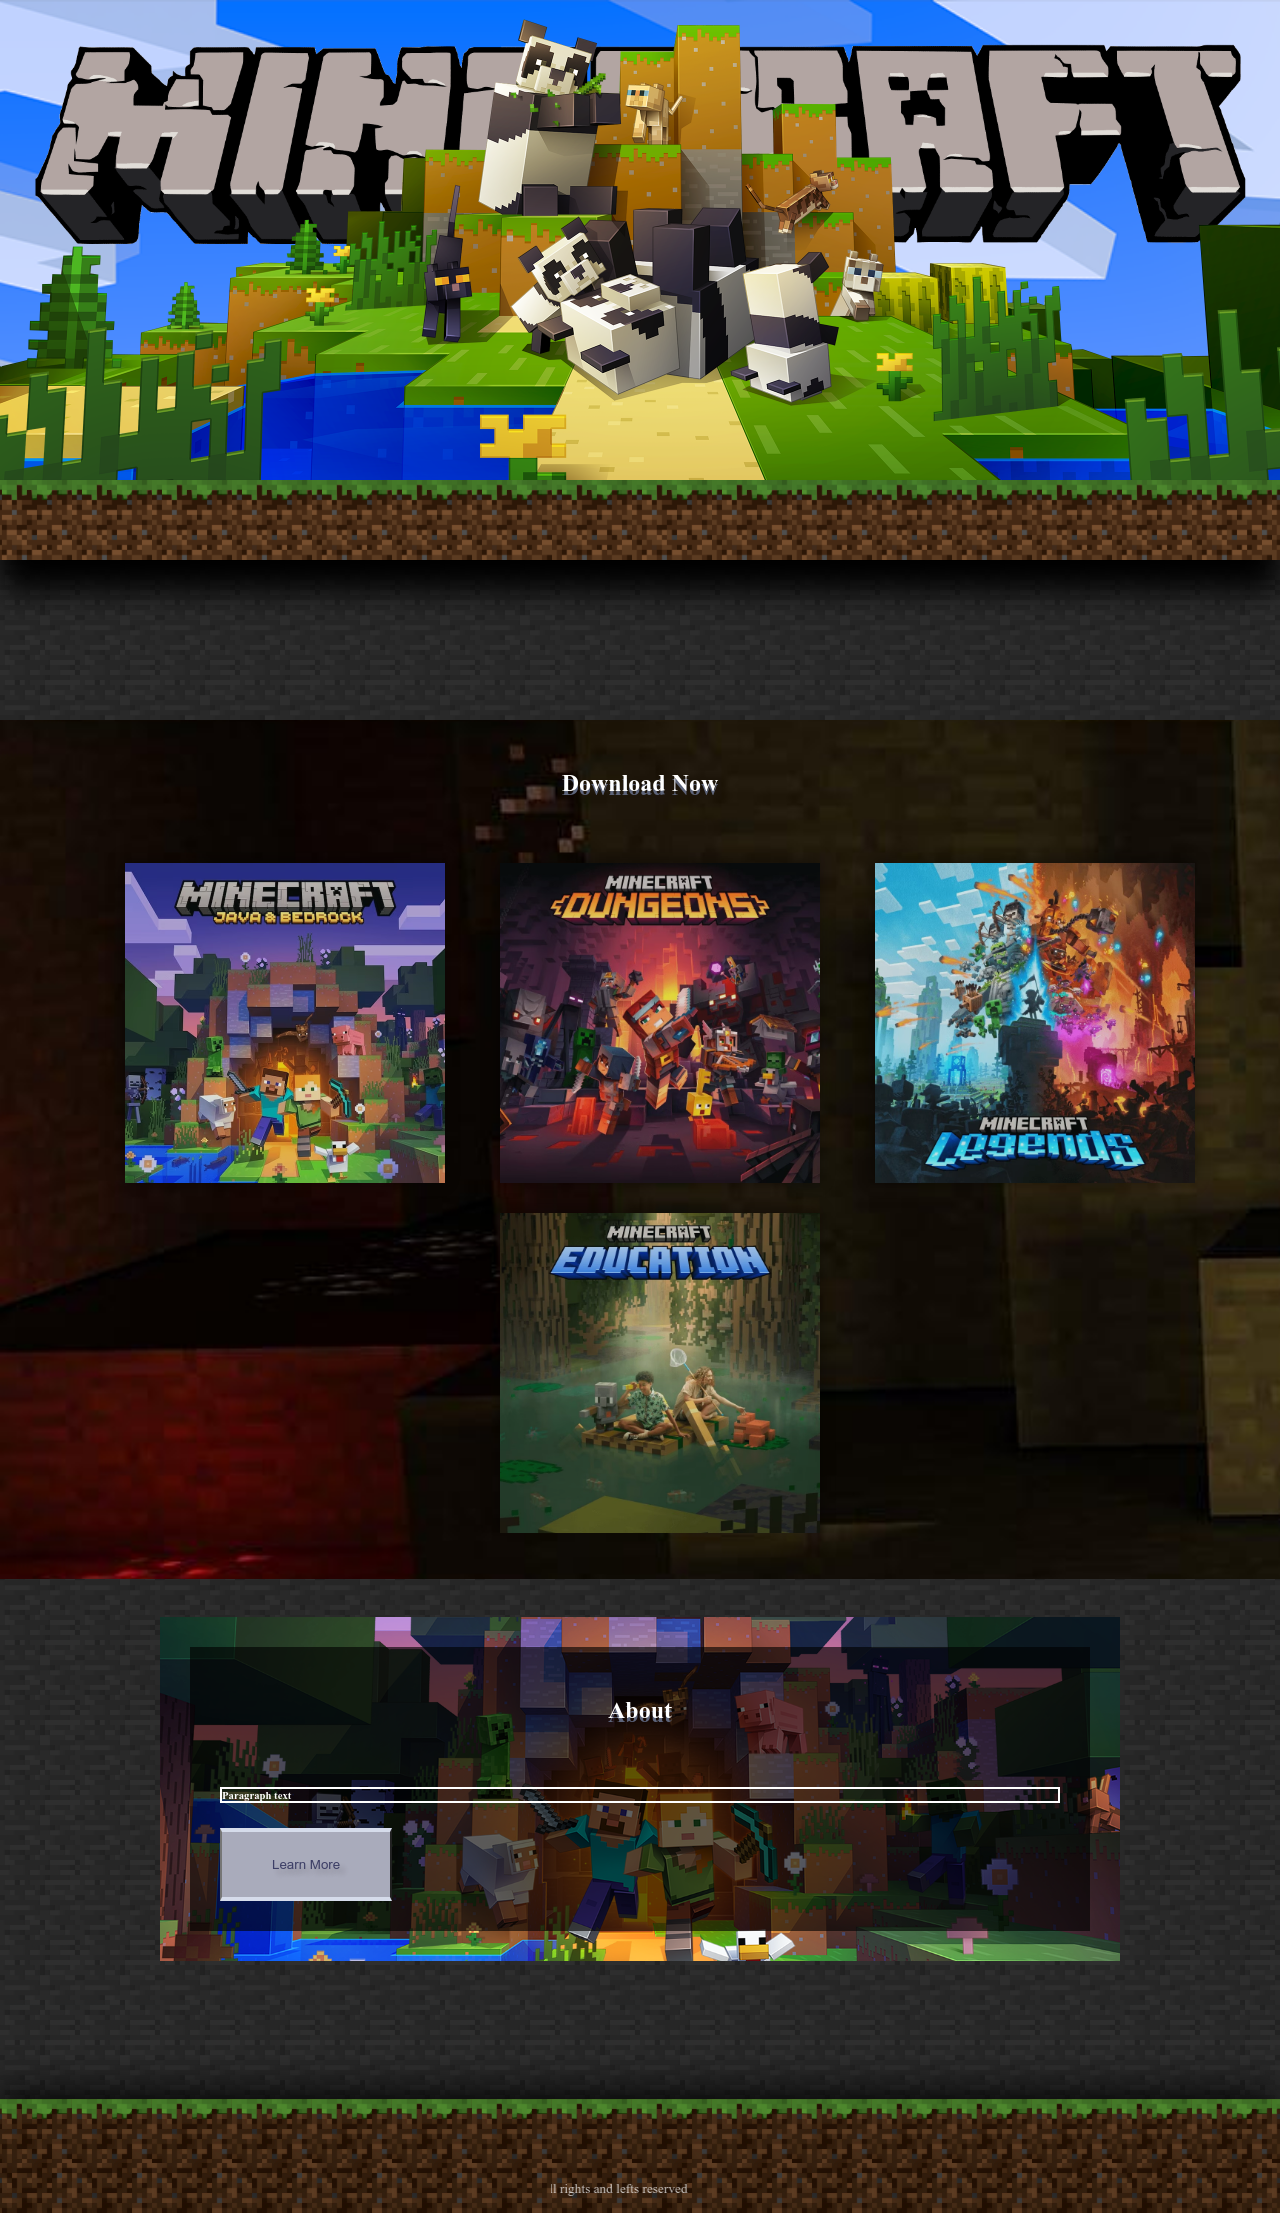
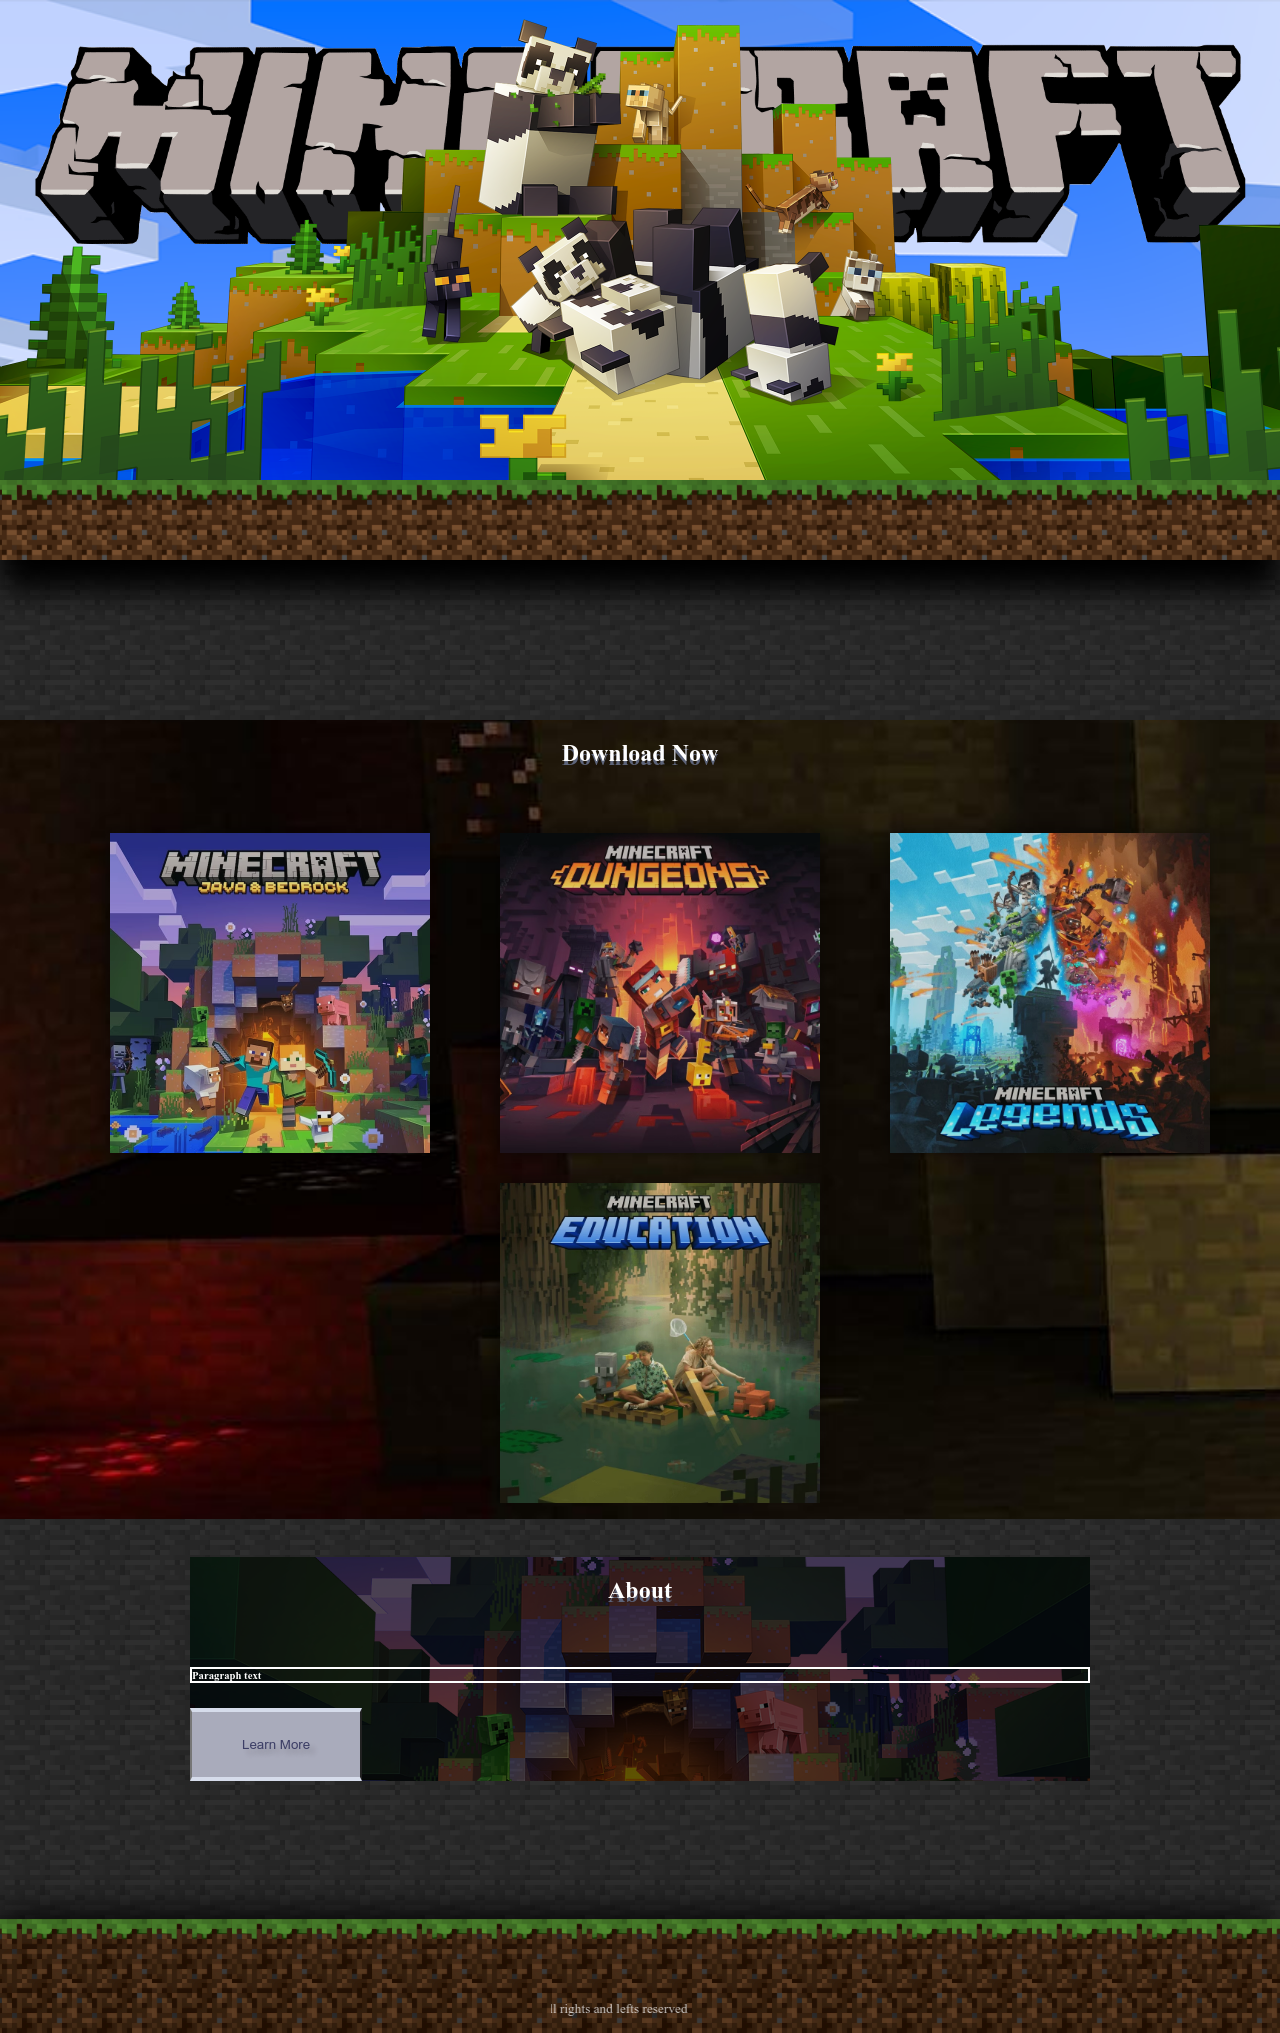
m

diff --git a/index.html b/index.html
@@ -12,7 +12,36 @@
     </head>
     <body>
         <header aria-label="Header">
-            
+            <div id="menulist">
+                <ul>
+                    <li>
+                        <div id="portal">
+                            <label>
+                                <input type="checkbox" id="menu">
+                                <span class="menu-btn">
+                                    <div class="btn-line"></div>
+                                    <div class="btn-line"></div>
+                                    <div class="btn-line"></div>
+                                </span>
+                                <span id="menuitems">
+                                    <a href="index.html">
+                                        Home
+                                    </a>
+                                    <a href="about.html">
+                                        About
+                                    </a>
+                                    <a href="products.html">
+                                        Products
+                                    </a>
+                                    <a href="contact.html">
+                                        Contact
+                                    </a>
+                                </span> 
+                            </label>
+                        </div>
+                    </li>
+                </ul>
+            </div>
             <div>
                 <div id="logo">
                     <img src="images/mc.png" alt="Minecraft Logo">
@@ -59,12 +88,14 @@
                 <div class="slidein">
                     <div id="scroller">
                         <p id="scrollerText">
-                            
+                            The first version of Minecraft was created in just six days.
+                            Minecraft wasn't deemed complete for another two years.
+                            Creepers began as a coding error. --------------------
                         </p>
                     </div>
                 </div>         
-                <h6 class="slidein" id="para" style="border: 2px solid">
-                    Paragraph text
+                <h6 class="slidein" id="para">
+                    Enter the boundless world of Minecraft - where imagination reigns supreme and every block holds the potential for endless adventure. Dive into a universe where creativity knows no bounds and exploration knows no limits. Welcome to the Minecraft Games, where every pixel tells a story and every player is a pioneer of their own digital frontier.
                 </h6>
                 <button class="download" onclick="window.location='about.html'">Learn More</button>
             </section>
@@ -75,7 +106,7 @@
         <footer>
             <!-- <div id="toTop"></div> -->
             <div>
-                <p class="slidein"><small>2024 All rights and lefts reserved</small></p>    
+                <p class="slidein"><small>2024 &copy; All rights and lefts reserved</small></p>    
             </div>
         </footer>
     </body>

diff --git a/css/styles.css b/css/styles.css
@@ -1,4 +1,12 @@
+@font-face {
+    font-family: poppins;
+    src: url(../fonts/MinecraftRegular-Bmg3.otf);
+}
 
+@font-face {
+    font-family: minecraft;
+    src: url(../fonts/MinecraftTen.woff);
+}
 
 * {
     overflow-x: hidden;
@@ -10,6 +18,7 @@
     --sec: #282828aa;
     --ter: #35CE8D;
     color: white;
+    font-family: poppins;
     scroll-behavior: smooth;
 }
 
@@ -17,6 +26,7 @@
     margin: auto;
     margin-top: 20px;
     margin-bottom: 20px;
+    padding: 30px;
     background-image: url(../images/dirt.webp);
     background-size: 5em;
     overflow: hidden;
@@ -137,11 +147,12 @@ Navigation Menu
 }
 
 header ul {
+    font-family: minecraft;
 }
 
 #menuitems a:first-letter {
     color: #e0f1ea;
-    .itemssize: 1.3em;
+    font-size: 1.3em;
 }
 
 #menuitems a {
@@ -208,16 +219,13 @@ label {
 
 .color {
     background-color: #000000a0;
+    padding: 30px;
     
 }
 
-p {
-    min-width: 10%;
-}
-
 .block h2 {
-    .itemsfamily: minecraft;
-    .itemssize: 3em;
+    font-family: minecraft;
+    font-size: 3em;
     text-align: center;
 }
 
@@ -308,8 +316,8 @@ input, textarea {
     border: 2px solid var(--pri);
     background-color: var(--sec);
     color: white;
-    .itemssize: large;
-    .itemsfamily: minecraft;
+    font-size: large;
+    font-family: minecraft;
     margin: 20px;
     padding: 15px;
     transition: 0.4s;
@@ -335,9 +343,9 @@ a {
 }
 
 h1 {
-    .itemsfamily: minecraft;
+    font-family: minecraft;
     text-align: center;
-    .itemssize: 8em;
+    font-size: 8em;
 }
 
 h1, h2 {
@@ -356,7 +364,7 @@ section h1 {
 
 #indexAbout p {
     margin: 5px;
-    .itemssize: 0.5em;
+    font-size: 0.5em;
     display: inline;
 }
 
@@ -366,12 +374,12 @@ section h1 {
     word-break: break-all;
     overflow: hidden;
     letter-spacing: 2px;
-    .itemssize: 1.5em;
+    font-size: 1.5em;
 }
 
 #para {
-    .itemsweight: normal;
-    .itemssize: 1em;
+    font-weight: normal;
+    font-size: 1em;
 }
 
 #products .items {
@@ -458,10 +466,10 @@ section h1 {
     border-top: 4px solid #d6dceb;
     border-bottom: 4px solid #d6dceb;
     padding: 25px 50px;
-    .itemssize: 1.3em;
+    font-size: 1.3em;
     background-color:#a9abbb;
     color:#3d3f66;
-    .itemsfamily: minecraft;
+    font-family: minecraft;
     margin: auto;
     transition: 0.4s;
 }
@@ -521,11 +529,11 @@ Animations
 /***** PHONE *****/
 @media (max-width: 1000px) {
     :root {
-        .itemssize: 5vw;
+        font-size: 5vw;
     }
 
     h1 {
-        .itemssize: 15vw;
+        font-size: 15vw;
     }
 
     h2 {
@@ -562,7 +570,7 @@ Animations
 /***** NORMAL COMPUTER *****/
 @media (min-width: 1001px) {
     :root {
-        .itemssize: 1.5em;
+        font-size: 1.5em;
     }
 
     .block {
@@ -577,7 +585,7 @@ Animations
 /***** LARGE COMPUTER *****/
 @media (min-width: 2000px) {
     :root {
-        .itemssize: 4em;
+        font-size: 4em;
     }
 
     .block {
